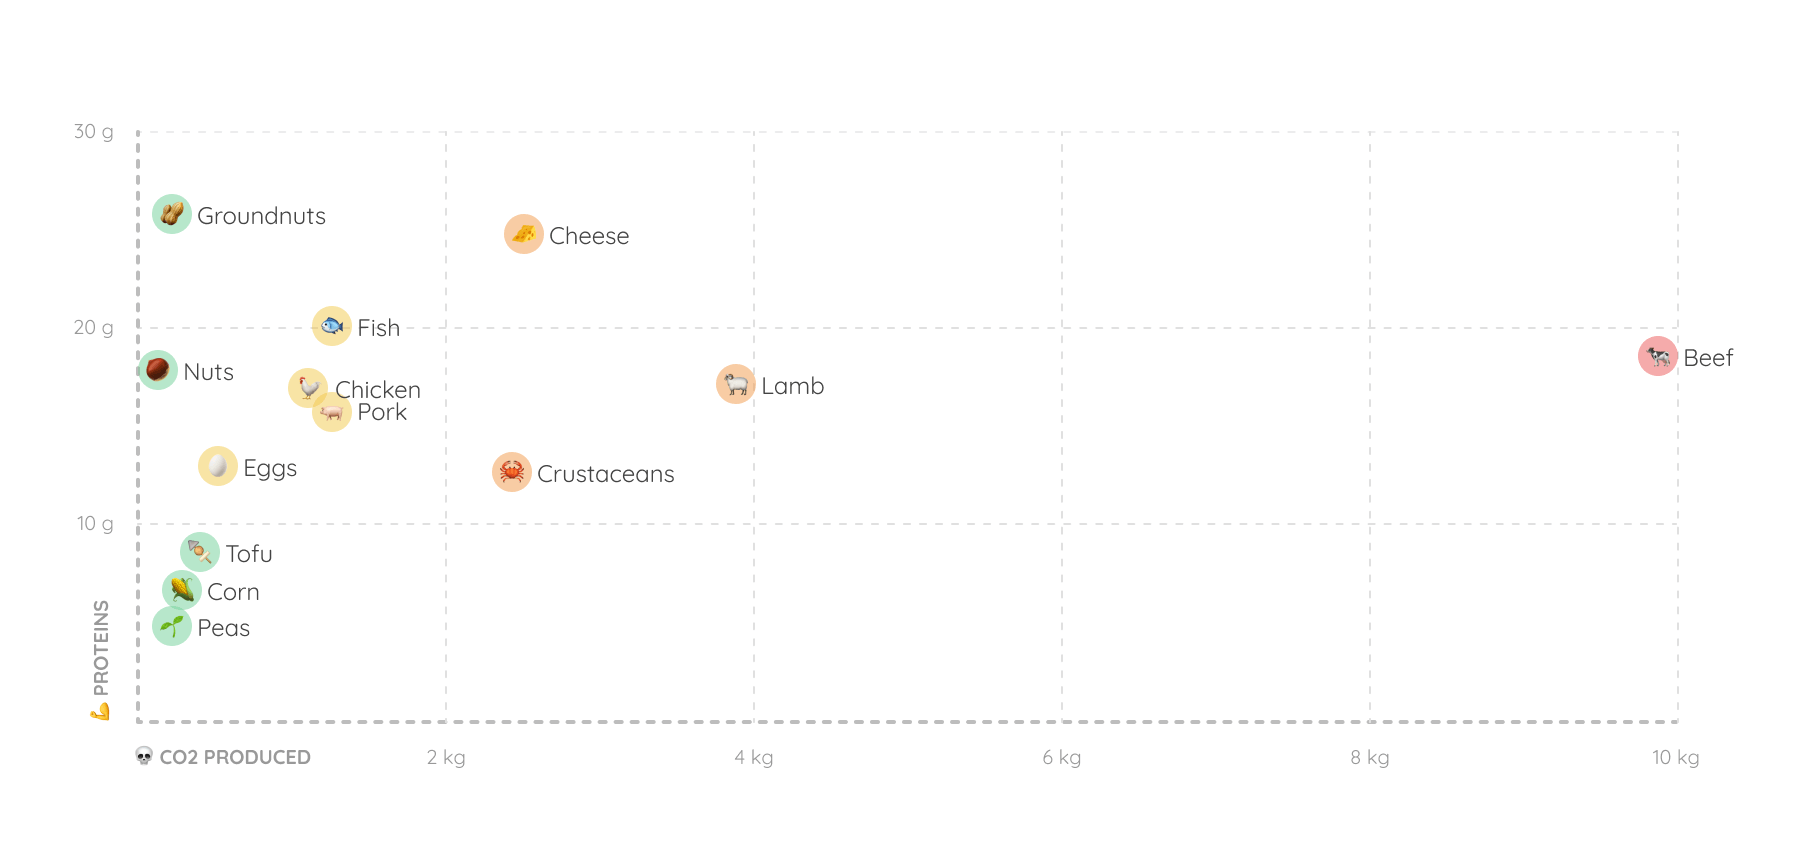
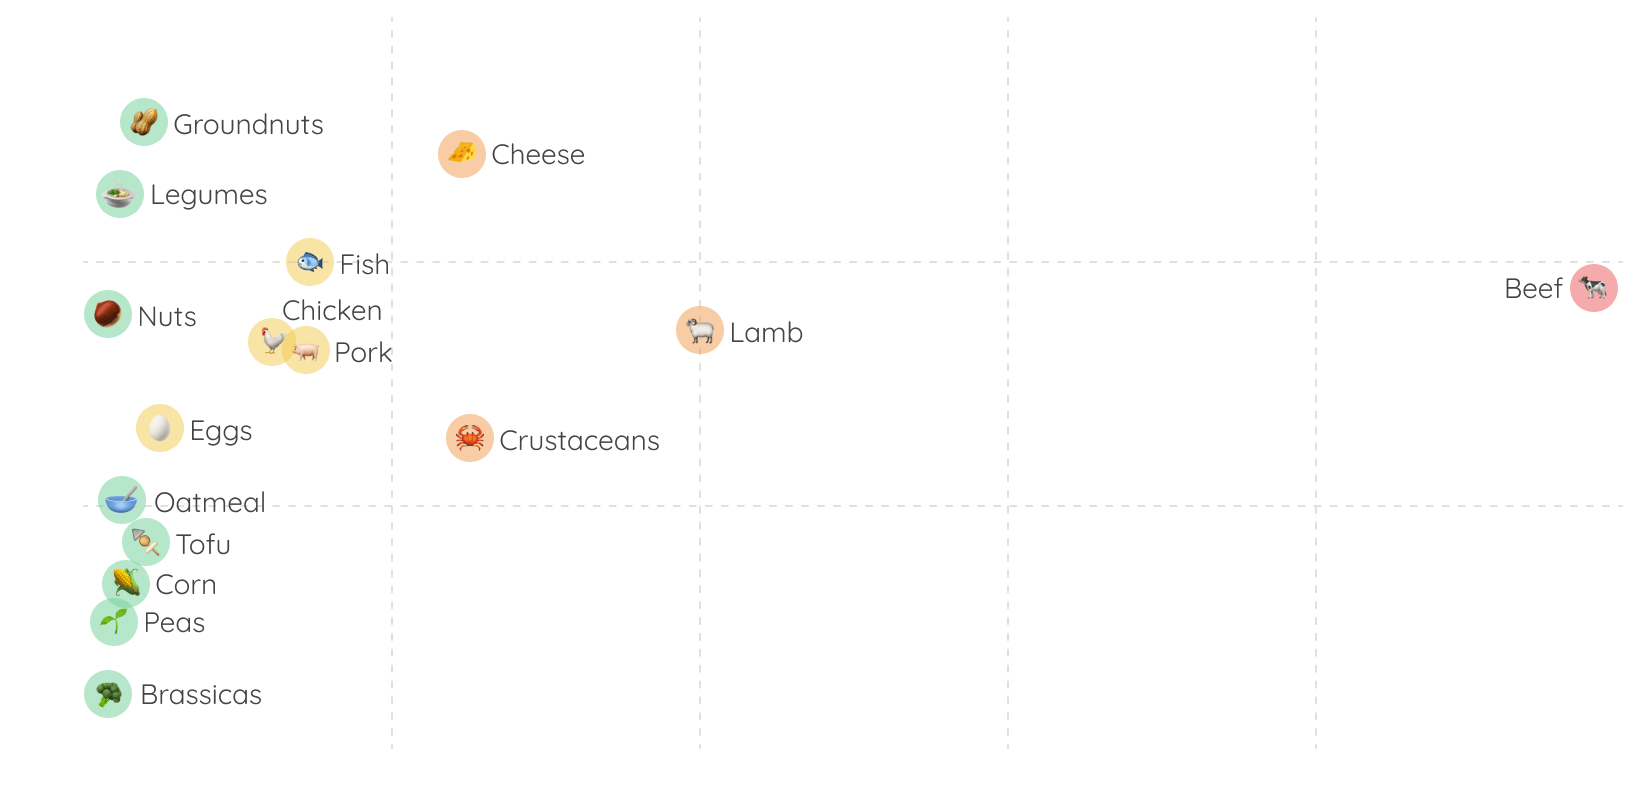
home food comparison background with new images

diff --git a/src/App.css b/src/App.css
@@ -17,16 +17,16 @@
   display: flex;
   flex-direction: column;
   align-items: center;
-  margin-bottom: 100px;
   padding-bottom: 100px;
+  color: white;
 }
 
   .red-home-text {
     font-family: 'Quicksand';
     font-weight: 800;
-    margin: 40px 20px 20px 20px;
-    width: 60%;
-    max-width: 820px;
+    margin: 70px 20px 20px 20px;
+    width: 70%;
+    max-width: 900px;
   }
 
     .red-home-title {
@@ -37,6 +37,7 @@
     .red-home-support {
       font-size: 20px;
       line-height: 25px;
+      font-weight: normal;
     }
 
 .header {
@@ -101,7 +102,7 @@ body {
   font-weight: bold;
   color: white;
   background: #BB6BD9;
-  border: 3px dotted #FFFFFF;
+  border: 1px dotted #FFFFFF;
   box-shadow: 0px 2px 4px rgba(0, 0, 0, 0.25);
   border-radius: 8px;
   font-family: 'Quicksand';
@@ -112,7 +113,7 @@ body {
   .impact-button-impactpage {
     color: #4F4F4F;
     background: #F2F2F2;
-    border: 3px dotted #BDBDBD;
+    border: 1px dotted #BDBDBD;
     box-shadow: 0px 2px 4px rgba(0, 0, 0, 0.25);
     border-radius: 8px;
   }
@@ -123,6 +124,7 @@ body {
 
 button:hover {
   box-shadow: 0px 8px 8px rgba(0, 0, 0, 0.25);
+  transition: 0.2s;
 }
 
 a:link, a:visited, a:active {
@@ -139,6 +141,13 @@ a:hover {
 .beefvstofu {
   width: 60%;
   max-width: 820px;
+  margin-top: 30px;
+}
+
+.foodcomparisondesktop {
+  width: 90%;
+  max-width: 1200px;
+  margin-bottom: 30px;
 }
 
 .beefvstofumobile {
@@ -146,7 +155,7 @@ a:hover {
 }
 
 .home-note {
-  margin: 30px 20px 60px 20px;
+  margin: 30px 20px 120px 20px;
   font-family: Quicksand;
   font-style: normal;
   font-size: 14px;
@@ -263,6 +272,10 @@ a:hover {
   }
 
   .beefvstofu {
+    display: none;
+  }
+
+  .foodcomparisondesktop {
     display: none;
   }
 

diff --git a/src/pages/Home.js b/src/pages/Home.js
@@ -52,10 +52,10 @@ class Home extends Component {
         </div>
         <div className="red-home-background">
           <div className="red-home-text">
-            <div className="cover-title red-home-title">Food pollution comparison</div>
-            <div className="cover-support red-home-support">Food comparison based on 100g of product</div>
+            <div className="red-home-title">Food pollution comparison</div>
+            <div className="red-home-support">Food comparison based on 100g of product</div>
           </div>
-          <img className="beefvstofu" src={foodcomparisondesktop} alt="food comparison"/>
+          <img className="foodcomparisondesktop" src={foodcomparisondesktop} alt="food comparison"/>
           <img className="beefvstofumobile" src={foodcomparisonmobile} alt="food comparison"/>
         </div>
         <FBShare />

diff --git a/src/components/Form.css b/src/components/Form.css
@@ -68,7 +68,7 @@
     .form-input {
         font-family: 'Quicksand';
         font-weight: bold;
-        border: 3px dotted #BDBDBD;
+        border: 1px dotted #BDBDBD;
         border-radius: 8px;
         font-family: 'Quicksand';
         font-style: normal;
@@ -142,13 +142,13 @@
     .form-button-old-calculation {
       color: #4F4F4F;
       background: #F2F2F2;
-      border: 3px dotted #BDBDBD;
+      border: 1px dotted #BDBDBD;
     }
 
     .form-button-new-calculation {
       color: white;
       background: #BB6BD9;
-      border: 3px dotted #FFFFFF;
+      border: 1px dotted #FFFFFF;
     }
   
   .form-image {

diff --git a/src/pages/Science.css b/src/pages/Science.css
@@ -17,11 +17,11 @@
     padding: 20px;
     margin: 20px;
     cursor: pointer;
-    border: 3px dotted white;
+    border: 1px dotted white;
 }
 
     .science-article:hover {
-        border: 3px dotted #BB6BD9;
+        border: 1px dotted #BB6BD9;
     }
 
     .science-article-title {

diff --git a/src/components/FBShare.css b/src/components/FBShare.css
@@ -6,7 +6,7 @@
     margin-top: 200px;
     color: white;
     background-color: #2F80ED;
-    border: 3px dotted #FFFFFF;
+    border: 1px dotted #FFFFFF;
     box-shadow: 0px 2px 4px rgba(0, 0, 0, 0.25);
     border-radius: 8px;
     width: 280px;

diff --git a/src/components/Categories.css b/src/components/Categories.css
@@ -19,6 +19,7 @@
         font-size: 17px;
         text-align: center;
         cursor: pointer;
+        border: 1px dotted white;
     }
 
         button {
